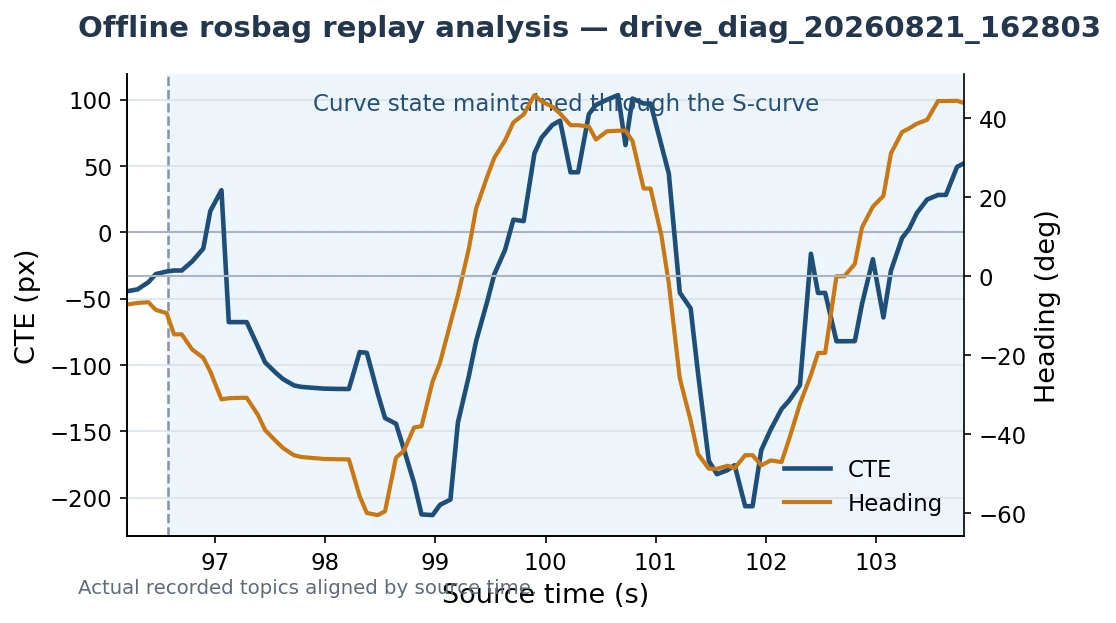
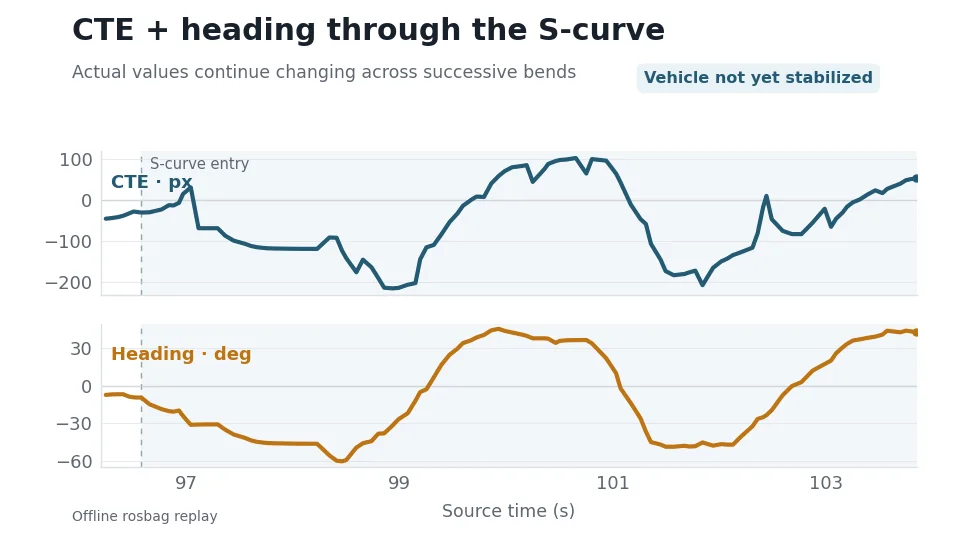
Animate Kookmin S-curve graphs

diff --git a/_pages/kookmin/05_scurve.md b/_pages/kookmin/05_scurve.md
@@ -29,11 +29,11 @@ next_label: Mission Integration & Result
 
 영상만으로는 짧은 상태 전환의 원인을 확인하기 어려워 rosbag에서 lane-control state, speed command, CTE, heading, steering command를 같은 시간축으로 비교했다. brief `Straight` transition 자체가 영상이나 아래 그래프에 직접 기록된 것은 아니므로, 이 자료를 해당 순간의 증거로 사용하지 않았다.
 
-CTE와 heading은 S자 구간을 지나는 동안 큰 폭으로 계속 변했다. 이는 전방 도로가 잠시 직선처럼 보이는 순간에도 차량은 직진 주행이 가능할 만큼 정렬된 상태가 아니었음을 보여준다.
+아래 애니메이션은 수정 후 실차 재주행의 실제 rosbag 측정값을 시간 순서대로 보여준다. CTE와 heading은 S자 구간을 지나는 동안 큰 폭으로 계속 변했으며, 전방 도로가 잠시 직선처럼 보이는 순간에도 차량은 직진 주행이 가능할 만큼 정렬된 상태가 아니었다.
 
 <figure class="project-media">
-  <img src="{{ '/assets/img/projects/kookmin/scurve_cte_heading_timeline.webp' | relative_url }}" alt="Offline rosbag timeline of cross-track error and heading through consecutive S-curve bends" width="1116" height="623" loading="lazy" decoding="async">
-  <figcaption><strong>Offline rosbag replay analysis.</strong> CTE and heading were still changing substantially through the S-curve, showing that the vehicle had not yet stabilized for straight driving.</figcaption>
+  {% include project_video.liquid src="/assets/video/projects/kookmin/scurve_cte_heading_timeline.mp4" poster="/assets/img/projects/kookmin/scurve_cte_heading_timeline.webp" aria_label="Animated offline rosbag plot showing CTE and heading continuing to change through the S-curve" %}
+  <figcaption><strong>Offline rosbag replay analysis · Vehicle not yet stabilized.</strong> 실제 CTE와 heading이 S자 구간에서 계속 변하는 모습을 시간 순서로 표시했다. brief <code>Straight</code> transition의 직접 증거가 아니라, 차량이 아직 직진 주행을 할 만큼 안정화되지 않았음을 보여주는 자료다.</figcaption>
 </figure>
 
 ## Fix — Delay the State Transition
@@ -48,11 +48,11 @@ CTE와 heading은 S자 구간을 지나는 동안 큰 폭으로 계속 변했다
 
 ## Verification After the Fix
 
-약 0.2초 `Curve`-state hold를 적용한 뒤 실차로 다시 주행했다. Lane 영상이 끝나는 96.20초부터 이어지는 S자 구간에서 96.58초에 `Curve`로 전환되었고, 이후 연속 곡선이 끝날 때까지 상태가 유지되었다. 이전에 관찰했던 짧은 `Straight` transition은 이 재주행에서 다시 나타나지 않았다.
+약 0.2초 `Curve`-state hold를 적용한 뒤 실차로 다시 주행했다. 아래 애니메이션은 Lane 영상이 끝나는 96.20초부터 이어지는 S자 구간의 lane-control state와 speed command를 같은 시간축으로 보여준다. 96.58초에 `Curve`로 전환된 뒤 연속 곡선이 끝날 때까지 상태가 유지되었고, 이전에 관찰했던 짧은 `Straight` transition은 이 재주행에서 다시 나타나지 않았다.
 
 <figure class="project-media">
-  <img src="{{ '/assets/img/projects/kookmin/scurve_state_speed_timeline.webp' | relative_url }}" alt="Post-fix offline rosbag timeline showing Curve state maintained through the actual S-curve" width="1121" height="623" loading="lazy" decoding="async">
-  <figcaption><strong>Offline rosbag replay analysis.</strong> After the fix, `Curve` state remained active through the S-curve.</figcaption>
+  {% include project_video.liquid src="/assets/video/projects/kookmin/scurve_state_speed_timeline.mp4" poster="/assets/img/projects/kookmin/scurve_state_speed_timeline.webp" aria_label="Animated post-fix verification showing Curve state maintained through the actual S-curve" %}
+  <figcaption><strong>Offline rosbag replay analysis · Curve state maintained after fix.</strong> 약 0.2초 Curve-state hold 적용 후, 실제 S자 구간에서 <code>Curve</code> state가 유지되었음을 보여주는 수정 후 검증 자료다.</figcaption>
 </figure>
 
 이 사례의 핵심은 “앞 도로가 직선으로 보인다”는 것과 “차량이 직진 주행이 가능할 만큼 안정화되었다”는 것을 같은 조건으로 취급하지 않는 것이었다.
